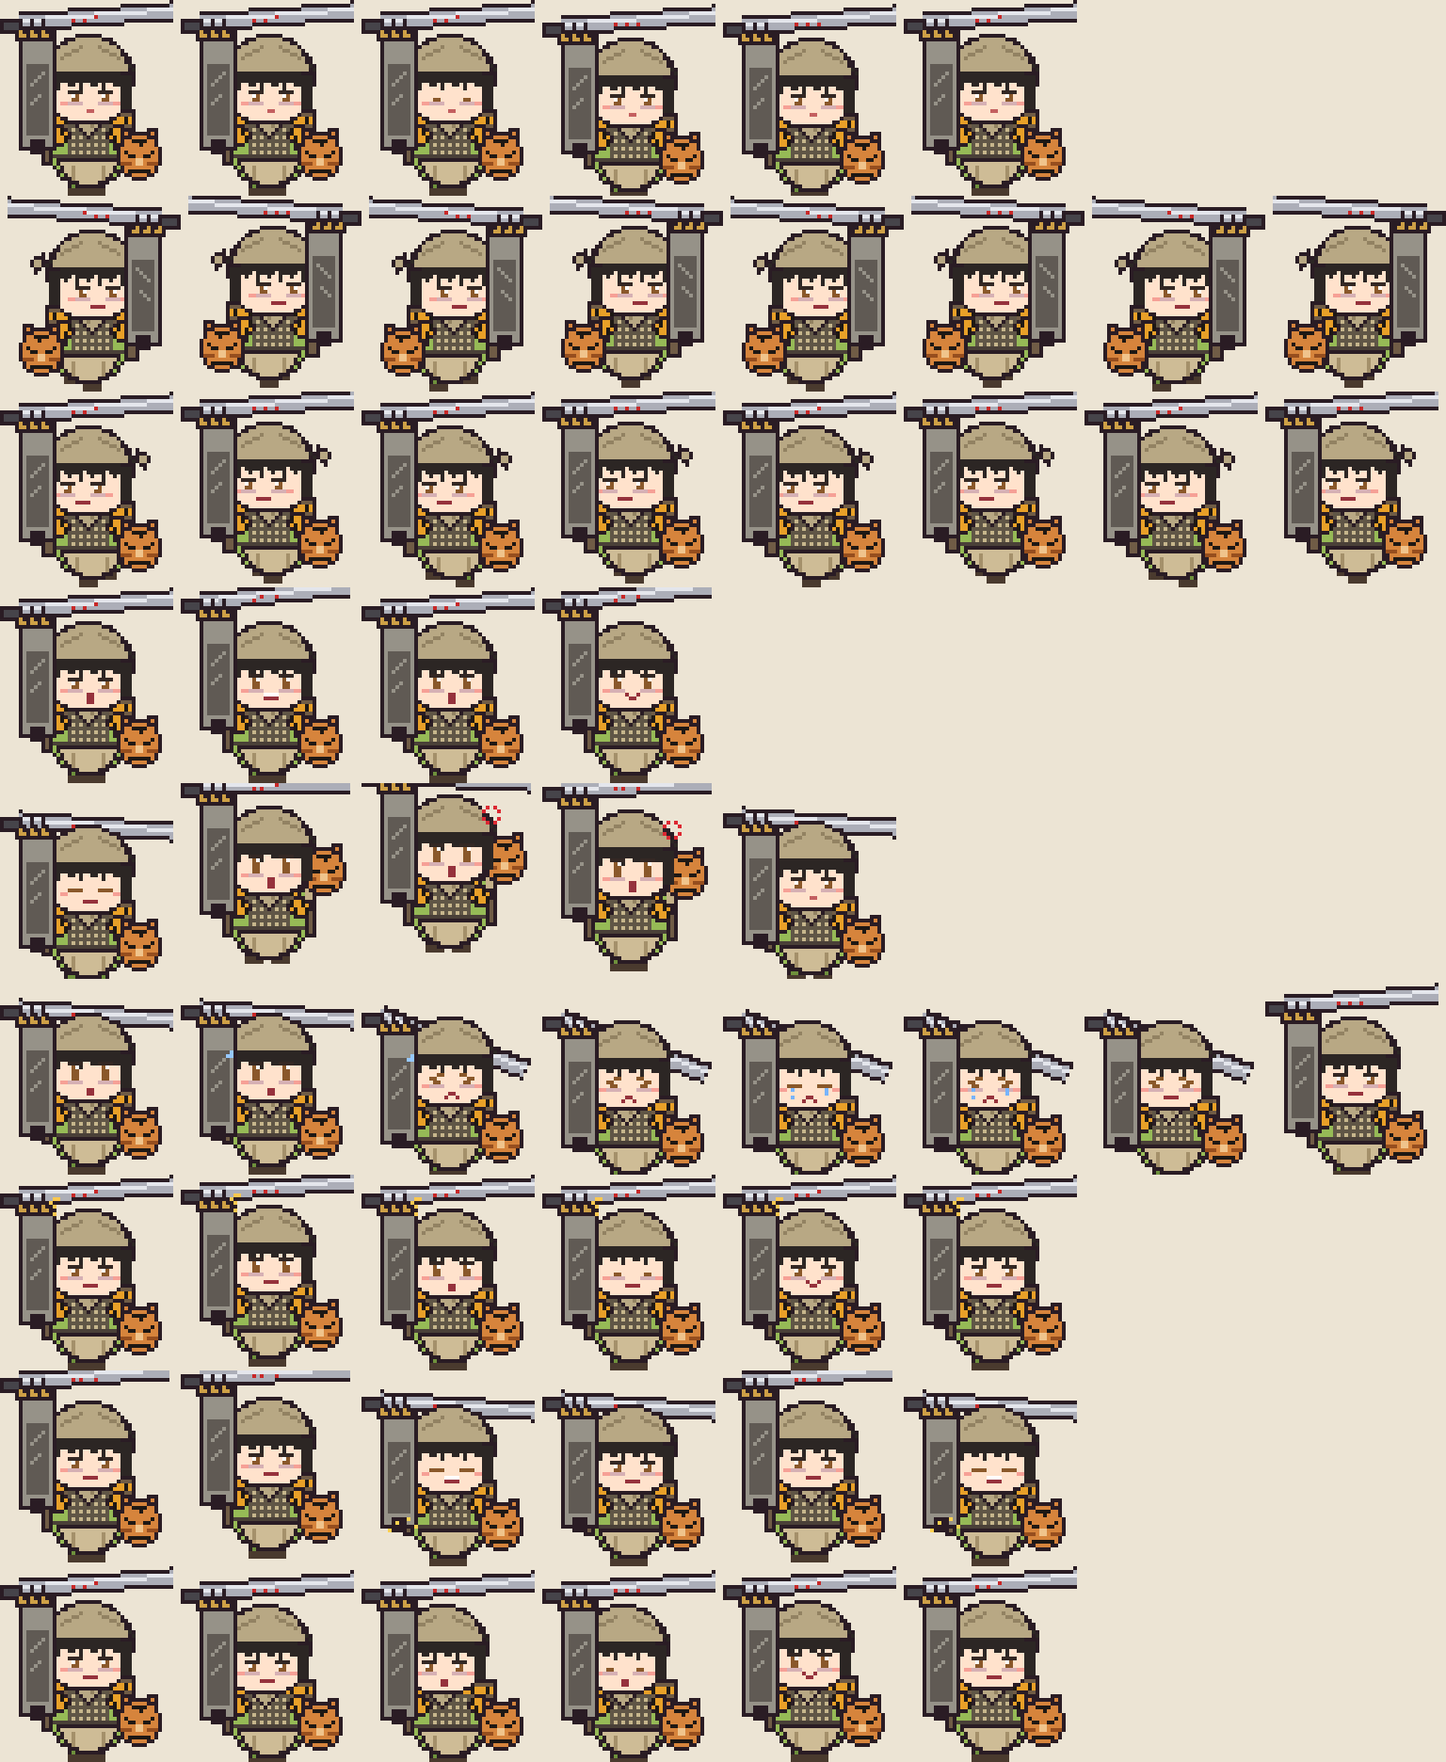
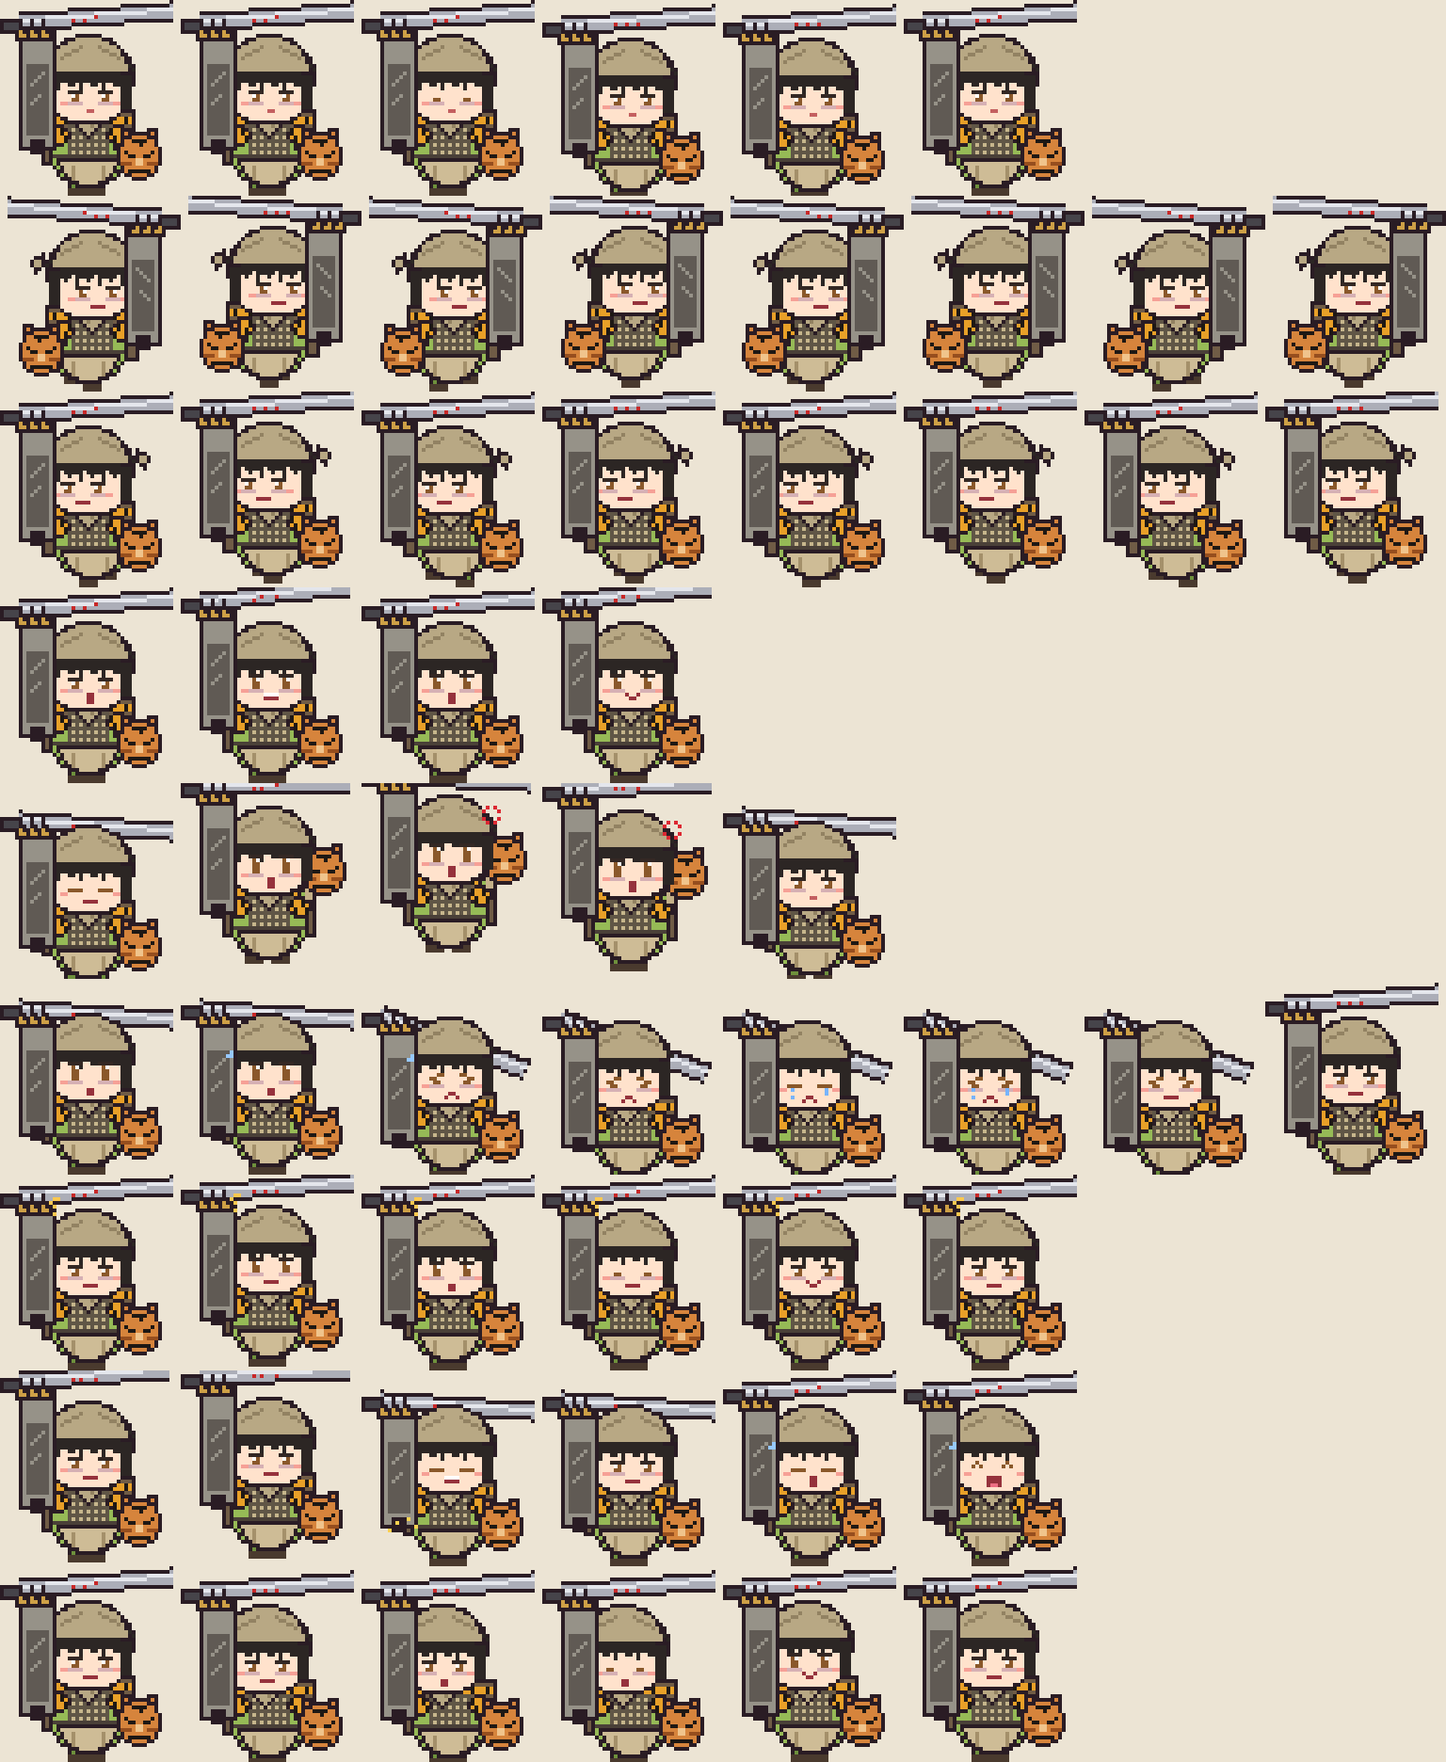
小梅改依官方立繪並加入招牌動作（飛踢、鶴手、眨眼吐舌敲頭），小竹加入擦汗動作
Claude-Session: https://claude.ai/code/session_014Ug96dnPv181rpAqSNBU9C

Changed region(s): [[0.5, 0.7746, 0.75, 0.8985]]

diff --git a/tools/build_sprites.py b/tools/build_sprites.py
@@ -37,21 +37,25 @@ OUTLINE = (42, 28, 36, 255)
 CHARACTERS = {
     "xiaomei": {
         "displayName": "小梅",
-        "description": "崆峒飛天門的虞小梅：紅白衣裙、愛鬧愛笑、廚藝一流。說「本梅」的時候才是真心話。（活俠傳同人）",
-        "hair": (34, 28, 44, 255),
-        "hair_hi": (74, 64, 96, 255),
+        "description": "崆峒飛天門的虞小梅：高馬尾、白衣紅裙、愛鬧愛笑、廚藝一流。招牌是飛踢與鶴手，說「本梅」的時候才是真心話。（活俠傳同人）",
+        # 依官方立繪：高馬尾紅髮繩、白上衣紅交領、深褐腰封、紅色長褶裙、褐色護腕
+        "hair": (34, 28, 34, 255),
+        "hair_hi": (78, 66, 74, 255),
         "skin": (255, 226, 204, 255),
         "skin_sh": (240, 190, 165, 255),
         "eye": (70, 26, 40, 255),
         "cloth": (252, 248, 242, 255),
         "cloth_sh": (222, 212, 206, 255),
-        "accent": (200, 44, 60, 255),
-        "accent_sh": (150, 28, 44, 255),
+        "accent": (204, 58, 62, 255),  # 紅裙、紅交領
+        "accent_sh": (150, 34, 40, 255),
         "sleeve": (252, 248, 242, 255),
-        "shoe": (150, 28, 44, 255),
+        "obi": (98, 66, 50, 255),  # 深褐腰封
+        "bracer": (102, 70, 52, 255),  # 褐色護腕
+        "shoe": (150, 34, 40, 255),
         "leg": (252, 248, 242, 255),  # 白襪
         "blush": (255, 150, 160, 255),
-        "long_hair": True,
+        "ponytail": True,
+        "long_hair": False,
         "height_drop": 0,
         "default_eyes": "open",
     },
@@ -141,6 +145,14 @@ ARM_HANDS = {
     "hold": ((5, 2), (5, 2)),
     "hammer_up": ((7, -7), (7, -7)),
     "fist_up": ((-5, -10), (5, -10)),
+    "behind": ((-1, 4), (1, 4)),
+    "crane": ((-7, -12), (7, -12)),
+    "crane_mid": ((-8, -7), (8, -7)),
+    "spread": ((-10, -3), (10, -4)),
+    "fist_side": ((3, -3), (-3, -3)),
+    "bonk": ((5, -18), (4, -18)),
+    "belly": ((5, 5), (-5, 5)),
+    "wipe": ((-5, -9), (5, -9)),  # 手肘往外抬；前臂在畫完臉之後補上
     "hammer_down": ((7, 3), (7, 3)),
     "stir_a": ((5, 5), (3, 6)),
     "stir_b": ((7, 4), (5, 7)),
@@ -173,7 +185,17 @@ def draw_frame(cid, pose):
 
     # 後髮
     sway = pose["hair_sway"]
-    if c["long_hair"]:
+    if c.get("ponytail"):
+        p.ell(hx - 12, hy - 12, hx + 12, hy + 10, c["hair"], OUTLINE)
+        # 高馬尾從頭頂右後方甩出去，往右跑時甩到左邊
+        k = -1 if face_r else 1
+        bx0 = hx + 4 * k
+        pts = [(bx0, hy - 14), (bx0 + 4 * k, hy - 15), (bx0 + 11 * k + sway * k, hy - 9),
+               (bx0 + 13 * k + sway * 2 * k, hy + 1), (bx0 + 10 * k + sway * 2 * k, hy + 5),
+               (bx0 + 9 * k + sway * k, hy - 4), (bx0 + 3 * k, hy - 10)]
+        p.poly(pts, c["hair"], OUTLINE)
+        p.line([(bx0 + 5 * k, hy - 12), (bx0 + 10 * k + sway * k, hy - 5)], c["hair_hi"])
+    elif c["long_hair"]:
         tail = -3 if face_r else 0
         p.poly([(hx - 11 + tail + sway, hy), (hx + 11 + tail + sway, hy),
                 (hx + 10 + tail + sway * 2, hy + 21), (hx - 10 + tail + sway * 2, hy + 21)],
@@ -216,6 +238,14 @@ def draw_frame(cid, pose):
     elif legs == "tuck":
         leg(20 + dx, hip_y, hip_y + 2)
         leg(27 + dx, hip_y, hip_y + 2)
+    elif legs == "kick":
+        # 左腳收起、右腳往旁邊踢直
+        leg(20 + dx, hip_y, hip_y + 1)
+        kx0, ky0, kx1, ky1 = 26 + dx, hip_y - 1, 40 + dx, hip_y - 7
+        p.line([(kx0, ky0), (kx1, ky1)], OUTLINE, 5)
+        p.line([(kx0, ky0), (kx1, ky1)], c["leg"], 3)
+        p.rect(kx1 - 1, ky1 - 3, kx1 + 4, ky1 + 2, OUTLINE)
+        p.rect(kx1, ky1 - 2, kx1 + 3, ky1 + 1, shoe)
     elif legs == "crouch":
         leg(20 + dx, hip_y, base_bottom)
         leg(27 + dx, hip_y, base_bottom)
@@ -237,13 +267,20 @@ def draw_frame(cid, pose):
         p.poly(body, c["cloth"], OUTLINE)
         p.line([(17 + dx + flare, 44 + dy), (31 + dx + flare, 44 + dy)], c["cloth_sh"])
     if cid == "xiaomei":
-        # 紅腰帶、紅裙襬、紅領
-        p.rect(19 + dx, 38 + dy, 29 + dx, 39 + dy, c["accent"])
-        p.line([(17 + dx + flare, 43 + dy), (31 + dx + flare, 43 + dy)], c["accent"])
-        p.line([(17 + dx + flare, 44 + dy), (31 + dx + flare, 44 + dy)], c["accent_sh"])
-        p.poly([(22 + dx, 33 + dy), (26 + dx, 33 + dy), (24 + dx, 36 + dy)], c["accent"])
-        p.px(30 + dx, 40 + dy, c["accent"])  # 腰帶垂穗
-        p.px(30 + dx, 41 + dy, c["accent"])
+        # 紅色長褶裙（踢腿時往踢的方向揚起）
+        kick = legs == "kick"
+        skirt = [(18 + dx, 40 + dy), (30 + dx, 40 + dy),
+                 (37 + dx if kick else 33 + dx + flare, (41 if kick else 48) + dy),
+                 (15 + dx + flare, 48 + dy)]
+        p.poly(skirt, c["accent"], OUTLINE)
+        for k_ in (20, 23, 26, 29):
+            p.line([(k_ + dx, 42 + dy), (k_ + dx + (2 if kick else flare), 47 + dy)], c["accent_sh"])
+        # 紅交領
+        p.line([(21 + dx, 33 + dy), (24 + dx, 37 + dy)], c["accent"])
+        p.line([(27 + dx, 33 + dy), (24 + dx, 37 + dy)], c["accent"])
+        # 深褐腰封與紅線
+        p.rect(18 + dx, 37 + dy, 30 + dx, 40 + dy, c["obi"])
+        p.line([(18 + dx, 39 + dy), (30 + dx, 39 + dy)], c["accent"])
     else:
         # 圍裙吊帶、深色腰帶、卡其長圍裙
         p.line([(20 + dx, 32 + dy), (20 + dx, 38 + dy)], c["accent"], 2)
@@ -267,11 +304,24 @@ def draw_frame(cid, pose):
     def arm(sx, name, side):
         hdx, hdy = ARM_HANDS[name][side]
         ex, ey = sx + hdx, sy + hdy
-        aw = 3 if rnd else 2
+        aw = 3 if rnd or "bracer" in c else 2  # 小竹手腳圓、小梅袖子寬
         p.line([(sx, sy), (ex, ey)], OUTLINE, aw + 2)
         p.line([(sx, sy), (ex, ey)], c["sleeve"], aw)
         p.px(ex, ey, OUTLINE)
         hand = c["skin"]
+        if name == "behind":  # 雙手背在身後：只露出一點袖子
+            return ex, ey
+        if "bracer" in c:  # 前臂的褐色護腕
+            mx, my = (sx + ex * 2) // 3, (sy + ey * 2) // 3
+            p.line([(mx, my), (ex, ey)], c["bracer"], aw)
+        if name in ("crane", "crane_mid"):
+            # 鶴手：手腕下彎、指尖朝下
+            d_ = 1 if side == 1 else -1
+            hook = [(ex, ey), (ex + 2 * d_, ey - 2), (ex + 4 * d_, ey - 1), (ex + 5 * d_, ey + 2), (ex + 5 * d_, ey + 4)]
+            p.line(hook, OUTLINE, 4)
+            p.line(hook, hand, 2)
+            p.px(ex + 5 * d_, ey + 5, OUTLINE)
+            return ex, ey
         if "glove" in c:  # 短袖，前臂到手掌是長手套
             mx, my = (sx * 2 + ex) // 3, (sy * 2 + ey) // 3
             p.line([(mx, my), (ex, ey)], c["glove"], aw)
@@ -353,12 +403,15 @@ def draw_frame(cid, pose):
     p.px(hx - 4, hy - 9, c["hair_hi"])
 
     if cid == "xiaomei":
-        # 梅花髮簪
-        bx, by = hx + 6, hy - 11
-        for ox, oy in ((0, -1), (1, 0), (0, 1), (-1, 0)):
-            p.px(bx + ox, by + oy, c["accent"])
-        p.px(bx, by, (255, 214, 90, 255))
-        p.px(bx + 2, by + 2, c["accent_sh"])
+        # 馬尾根部的紅髮繩
+        bx = hx + (-5 if face_r else 4)
+        by = hy - 13
+        p.rect(bx - 1, by - 1, bx + 2, by + 1, OUTLINE)
+        p.rect(bx, by, bx + 1, by, c["accent"])
+        p.px(bx + 2, by - 2, c["accent"]); p.px(bx - 1, by - 2, c["accent"])
+        # 長側髮
+        p.rect(hx - 11, hy - 2, hx - 9, hy + 10, hair)
+        p.rect(hx + 9, hy - 2, hx + 11, hy + 10, hair)
     else:
         # 卡其頭巾包住頭頂，結打在腦後
         p.d.chord([hx - 11, hy - 12, hx + 11, hy + 9], 180, 360, fill=c["kerchief"], outline=OUTLINE)
@@ -416,6 +469,10 @@ def draw_frame(cid, pose):
             p.line([(x - 1, ey), (x + 2, ey)], c["lid"])
             p.rect(x, ey + 1, x + 1, ey + 2, eye)
             p.px(x + 1, ey + 1, white)
+    elif eyes == "side":  # 害羞地往旁邊看
+        for x in (lx, rx):
+            p.rect(x + 1, ey, x + 2, ey + 2, eye)
+            p.px(x + 2, ey, white)
     elif eyes == "look_up":
         p.rect(lx, ey - 1, lx + 1, ey + 1, eye)
         p.rect(rx, ey - 1, rx + 1, ey + 1, eye)
@@ -433,6 +490,12 @@ def draw_frame(cid, pose):
         p.rect(mx - 1, my - 1, mx + 2, my, mouth); p.line([(mx - 1, my - 1), (mx + 2, my - 1)], white)
     elif m == "open":
         p.rect(mx, my - 1, mx + 1, my + 1, mouth)
+    elif m == "tongue":  # 吐舌
+        p.px(mx - 1, my - 1, mouth); p.px(mx, my, mouth); p.px(mx + 1, my, mouth); p.px(mx + 2, my - 1, mouth)
+        p.rect(mx + 1, my + 1, mx + 2, my + 2, (236, 110, 130, 255))
+    elif m == "laugh":  # 張嘴大笑
+        p.rect(mx - 1, my - 1, mx + 2, my + 1, mouth)
+        p.line([(mx, my + 1), (mx + 1, my + 1)], (236, 110, 130, 255))
     elif m == "small":
         p.line([(mx, my), (mx + 1, my)], (196, 96, 96, 255))
     elif m == "o":
@@ -449,6 +512,14 @@ def draw_frame(cid, pose):
     if "kerchief" in c:  # 領巾
         p.poly([(hx - 4, hy + 11), (hx + 4, hy + 11), (hx, hy + 15)], c["kerchief"], OUTLINE)
         p.px(hx - 1, hy + 12, c["kerchief_sh"])
+
+    if ar == "wipe":
+        # 擦汗：戴手套的前臂從手肘橫到額頭前
+        elbow = (sx_r + 5, sy - 9)
+        hand = (hx + 5 + look, hy)
+        p.line([elbow, hand], OUTLINE, 5)
+        p.line([elbow, hand], c.get("glove", c["skin"]), 3)
+        p.ell(hand[0] - 2, hand[1] - 2, hand[0] + 2, hand[1] + 2, c.get("glove", c["skin"]), OUTLINE)
 
     if pose["blush"] or c.get("blush_always"):
         p.rect(hx - 8 + look, hy + 6, hx - 7 + look, hy + 6, c["blush"])
@@ -553,6 +624,16 @@ def draw_frame(cid, pose):
             col = (220, 40, 50, 255)
             for ox, oy in ((0, 1), (1, 0), (3, 0), (4, 1), (0, 3), (1, 4), (3, 4), (4, 3)):
                 p.px(x + ox, y + oy, col)
+        elif f == "star":  # 敲頭冒出的小星星，貼在拳頭旁
+            x, y = hx + 13, hy - 9
+            col = (250, 210, 70, 255)
+            for ox, oy in ((1, 0), (0, 1), (1, 1), (2, 1), (1, 2)):
+                p.px(x + ox, y + oy, col)
+        elif f == "puff":  # 閉眼得意地「哼」一聲
+            x, y = hx + 4 + look, hy + 7
+            col = (245, 245, 250, 255)
+            p.rect(x, y - 1, x + 2, y, col); p.px(x + 3, y - 1, col); p.px(x + 1, y - 2, col)
+            p.px(x - 1, y, OUTLINE)
         elif f == "q":  # 等待：頭上小問號（貼著頭頂）
             x, y = hx + 8, hy - 15
             col = (250, 200, 80, 255)
@@ -575,6 +656,9 @@ def poses_for(cid):
         P(mouth=m0), P(mouth=m0), P(eyes="blink", mouth=m0), P(dy=1, mouth=m0),
         P(dy=1, hair_sway=1, mouth=m0), P(mouth=m0),
     ]
+    if mei:  # 小梅站著時雙手背在身後
+        for f_ in rows["idle"]:
+            f_["arms"] = ("behind", "behind")
     # 1 running-right
     run = []
     for i in range(8):
@@ -587,20 +671,30 @@ def poses_for(cid):
                      eyes="open" if mei else "squint"))
     rows["running-right"] = run
     # 3 waving
-    rows["waving"] = [
-        P(arms=("down", "wave_mid"), mouth="open", eyes="happy" if mei else "squint"),
-        P(arms=("down", "wave_up"), mouth="grin", eyes="happy" if mei else "open", blush=not mei),
-        P(arms=("down", "wave_mid"), mouth="open", eyes="happy" if mei else "open"),
-        P(arms=("down", "wave_up"), mouth="smile", eyes="wink" if mei else "open", blush=not mei),
-    ]
+    if mei:
+        # 鶴手：抬手、手腕下彎、指尖朝下
+        rows["waving"] = [
+            P(arms=("behind", "crane_mid"), mouth="open", eyes="open", hair_sway=1),
+            P(arms=("behind", "crane"), mouth="smile", eyes="happy"),
+            P(arms=("behind", "crane"), mouth="cat", eyes="wink", hair_sway=1),
+            P(arms=("behind", "crane_mid"), mouth="smile", eyes="happy"),
+        ]
+    else:
+        rows["waving"] = [
+            P(arms=("down", "wave_mid"), mouth="open", eyes="squint"),
+            P(arms=("down", "wave_up"), mouth="grin", eyes="open", blush=True),
+            P(arms=("down", "wave_mid"), mouth="open", eyes="open"),
+            P(arms=("down", "wave_up"), mouth="smile", eyes="open", blush=True),
+        ]
     # 4 jumping：預備、起跳、頂點、落下、站穩
     if mei:
+        # 招牌飛踢：蹲、躍起、側踢（一手前推、一手握拳）、落地
         rows["jumping"] = [
-            P(dy=2, legs="crouch", arms=("hip", "hip"), eyes="closed"),
-            P(dy=-4, legs="tuck", arms=("up", "up"), mouth="open", eyes="happy"),
-            P(dy=-7, legs="tuck", arms=("up", "up"), mouth="grin", eyes="happy", fx=("heart",)),
-            P(dy=-3, legs="stand", arms=("hip", "hip"), mouth="open"),
-            P(dy=1, legs="crouch", arms=("down", "down"), mouth="smile"),
+            P(dy=2, legs="crouch", arms=("hip", "hip"), eyes="closed", mouth="flat"),
+            P(dy=-4, legs="tuck", arms=("fist_side", "fist_side"), mouth="open", eyes="open", hair_sway=1),
+            P(dy=-5, legs="kick", arms=("fist_side", "spread"), mouth="open", eyes="wide", hair_sway=2),
+            P(dy=-4, legs="kick", arms=("fist_side", "spread"), mouth="grin", eyes="open", hair_sway=2),
+            P(dy=1, legs="crouch", arms=("behind", "behind"), mouth="smile", eyes="happy", fx=("heart",)),
         ]
     else:
         # 依官方圖：一手握拳、一手高舉大鐵鎚，張嘴大喊
@@ -613,15 +707,16 @@ def poses_for(cid):
         ]
     # 5 failed
     if mei:
+        # 搞砸了就眨眼吐舌、握拳敲頭（小梅的招牌裝傻）
         rows["failed"] = [
-            P(eyes="wide", mouth="o", arms=("down", "down")),
-            P(eyes="wide", mouth="o", arms=("face", "face"), fx=("sweat",)),
-            P(eyes="sad", mouth="frown", arms=("face", "face"), fx=("sweat",)),
-            P(eyes="sad", mouth="frown", arms=("droop", "droop"), dy=1, tilt=-1),
-            P(eyes="sad", mouth="frown", arms=("droop", "droop"), dy=2, tilt=-1, fx=("tear",)),
-            P(eyes="closed", mouth="frown", arms=("droop", "droop"), dy=2, tilt=-1, fx=("tear",)),
-            P(eyes="sad", mouth="flat", arms=("droop", "droop"), dy=2, tilt=-1),
-            P(eyes="sad", mouth="flat", arms=("down", "down"), dy=1),
+            P(eyes="wide", mouth="o", arms=("behind", "behind")),
+            P(eyes="wide", mouth="o", arms=("behind", "behind"), fx=("sweat",)),
+            P(eyes="wink", mouth="tongue", arms=("hip", "bonk"), tilt=1),
+            P(eyes="wink", mouth="tongue", arms=("hip", "bonk"), tilt=1, fx=("star",)),
+            P(eyes="wink", mouth="tongue", arms=("hip", "bonk"), tilt=1, dy=-1),
+            P(eyes="wink", mouth="tongue", arms=("hip", "bonk"), tilt=1, fx=("star",)),
+            P(eyes="happy", mouth="smile", arms=("hip", "bonk"), tilt=1),
+            P(eyes="open", mouth="smile", arms=("behind", "behind")),
         ]
     else:
         rows["failed"] = [
@@ -636,13 +731,14 @@ def poses_for(cid):
         ]
     # 6 waiting：期待你點頭
     if mei:
+        # 雙手背在身後、臉紅冒汗地斜眼看你，等你回答
         rows["waiting"] = [
-            P(arms=("front", "front"), eyes="look_up", mouth="smile", fx=("q",)),
-            P(arms=("front", "front"), eyes="look_up", mouth="smile", dy=-1, fx=("q",)),
-            P(arms=("front", "ask"), eyes="open", mouth="open", fx=("q",), tilt=1),
-            P(arms=("front", "ask"), eyes="blink", mouth="smile", fx=("q",), tilt=1),
-            P(arms=("front", "front"), eyes="look_up", mouth="cat", dy=-1, fx=("q",), blush=True),
-            P(arms=("front", "front"), eyes="look_up", mouth="smile", fx=("q",)),
+            P(arms=("behind", "behind"), eyes="side", mouth="smile", blush=True, fx=("q",)),
+            P(arms=("behind", "behind"), eyes="side", mouth="smile", blush=True, fx=("q", "sweat"), dy=-1),
+            P(arms=("behind", "behind"), eyes="side", mouth="cat", blush=True, fx=("q", "sweat")),
+            P(arms=("behind", "behind"), eyes="blink", mouth="smile", blush=True, fx=("q",)),
+            P(arms=("behind", "behind"), eyes="open", mouth="smile", blush=True, fx=("q",), dy=-1),
+            P(arms=("behind", "behind"), eyes="side", mouth="smile", blush=True, fx=("q",)),
         ]
     else:
         rows["waiting"] = [
@@ -669,8 +765,8 @@ def poses_for(cid):
             P(arms=("front", "hammer_up"), prop=("hammer", "up"), eyes="squint", mouth="flat", dy=-2),
             P(arms=("front", "hammer_down"), prop=("hammer", "down"), eyes="closed", mouth="grin", fx=("spark",)),
             P(arms=("front", "hammer_down"), prop=("hammer", "down"), eyes="squint", mouth="flat"),
-            P(arms=("front", "hammer_up"), prop=("hammer", "up"), eyes="squint", mouth="flat", dy=-1),
-            P(arms=("front", "hammer_down"), prop=("hammer", "down"), eyes="closed", mouth="grin", fx=("spark",)),
+            P(arms=("hip", "wipe"), eyes="closed", mouth="open", fx=("sweat",)),
+            P(arms=("hip", "wipe"), eyes="happy", mouth="laugh", fx=("sweat",)),
         ]
         # 打鐵時加上鐵砧（畫在同一格內）
         for f in rows["running"]:
@@ -678,13 +774,14 @@ def poses_for(cid):
             f["anvil"] = True
     # 8 review：小梅瞇眼打量（指間銀針）、小竹湊近看齒輪
     if mei:
+        # 閉眼「哼」一聲，再瞇眼打量（指間閃過銀針）
         rows["review"] = [
-            P(arms=("down", "chin"), eyes="open", mouth="flat"),
-            P(arms=("down", "chin"), eyes="squint", mouth="smirk", tilt=1),
-            P(arms=("down", "hold"), prop=("needle",), eyes="squint", mouth="smirk", tilt=1),
-            P(arms=("down", "hold"), prop=("needle",), eyes="blink", mouth="smirk", tilt=1),
-            P(arms=("down", "chin"), eyes="wink", mouth="smile"),
-            P(arms=("down", "chin"), eyes="open", mouth="flat"),
+            P(arms=("behind", "chin"), eyes="open", mouth="flat"),
+            P(arms=("behind", "behind"), eyes="closed", mouth="smirk", fx=("puff",)),
+            P(arms=("behind", "behind"), eyes="closed", mouth="smirk", fx=("puff",), dy=-1),
+            P(arms=("behind", "hold"), prop=("needle",), eyes="squint", mouth="smirk", tilt=1),
+            P(arms=("behind", "hold"), prop=("needle",), eyes="wink", mouth="smirk", tilt=1),
+            P(arms=("behind", "chin"), eyes="open", mouth="smile"),
         ]
     else:
         rows["review"] = [
